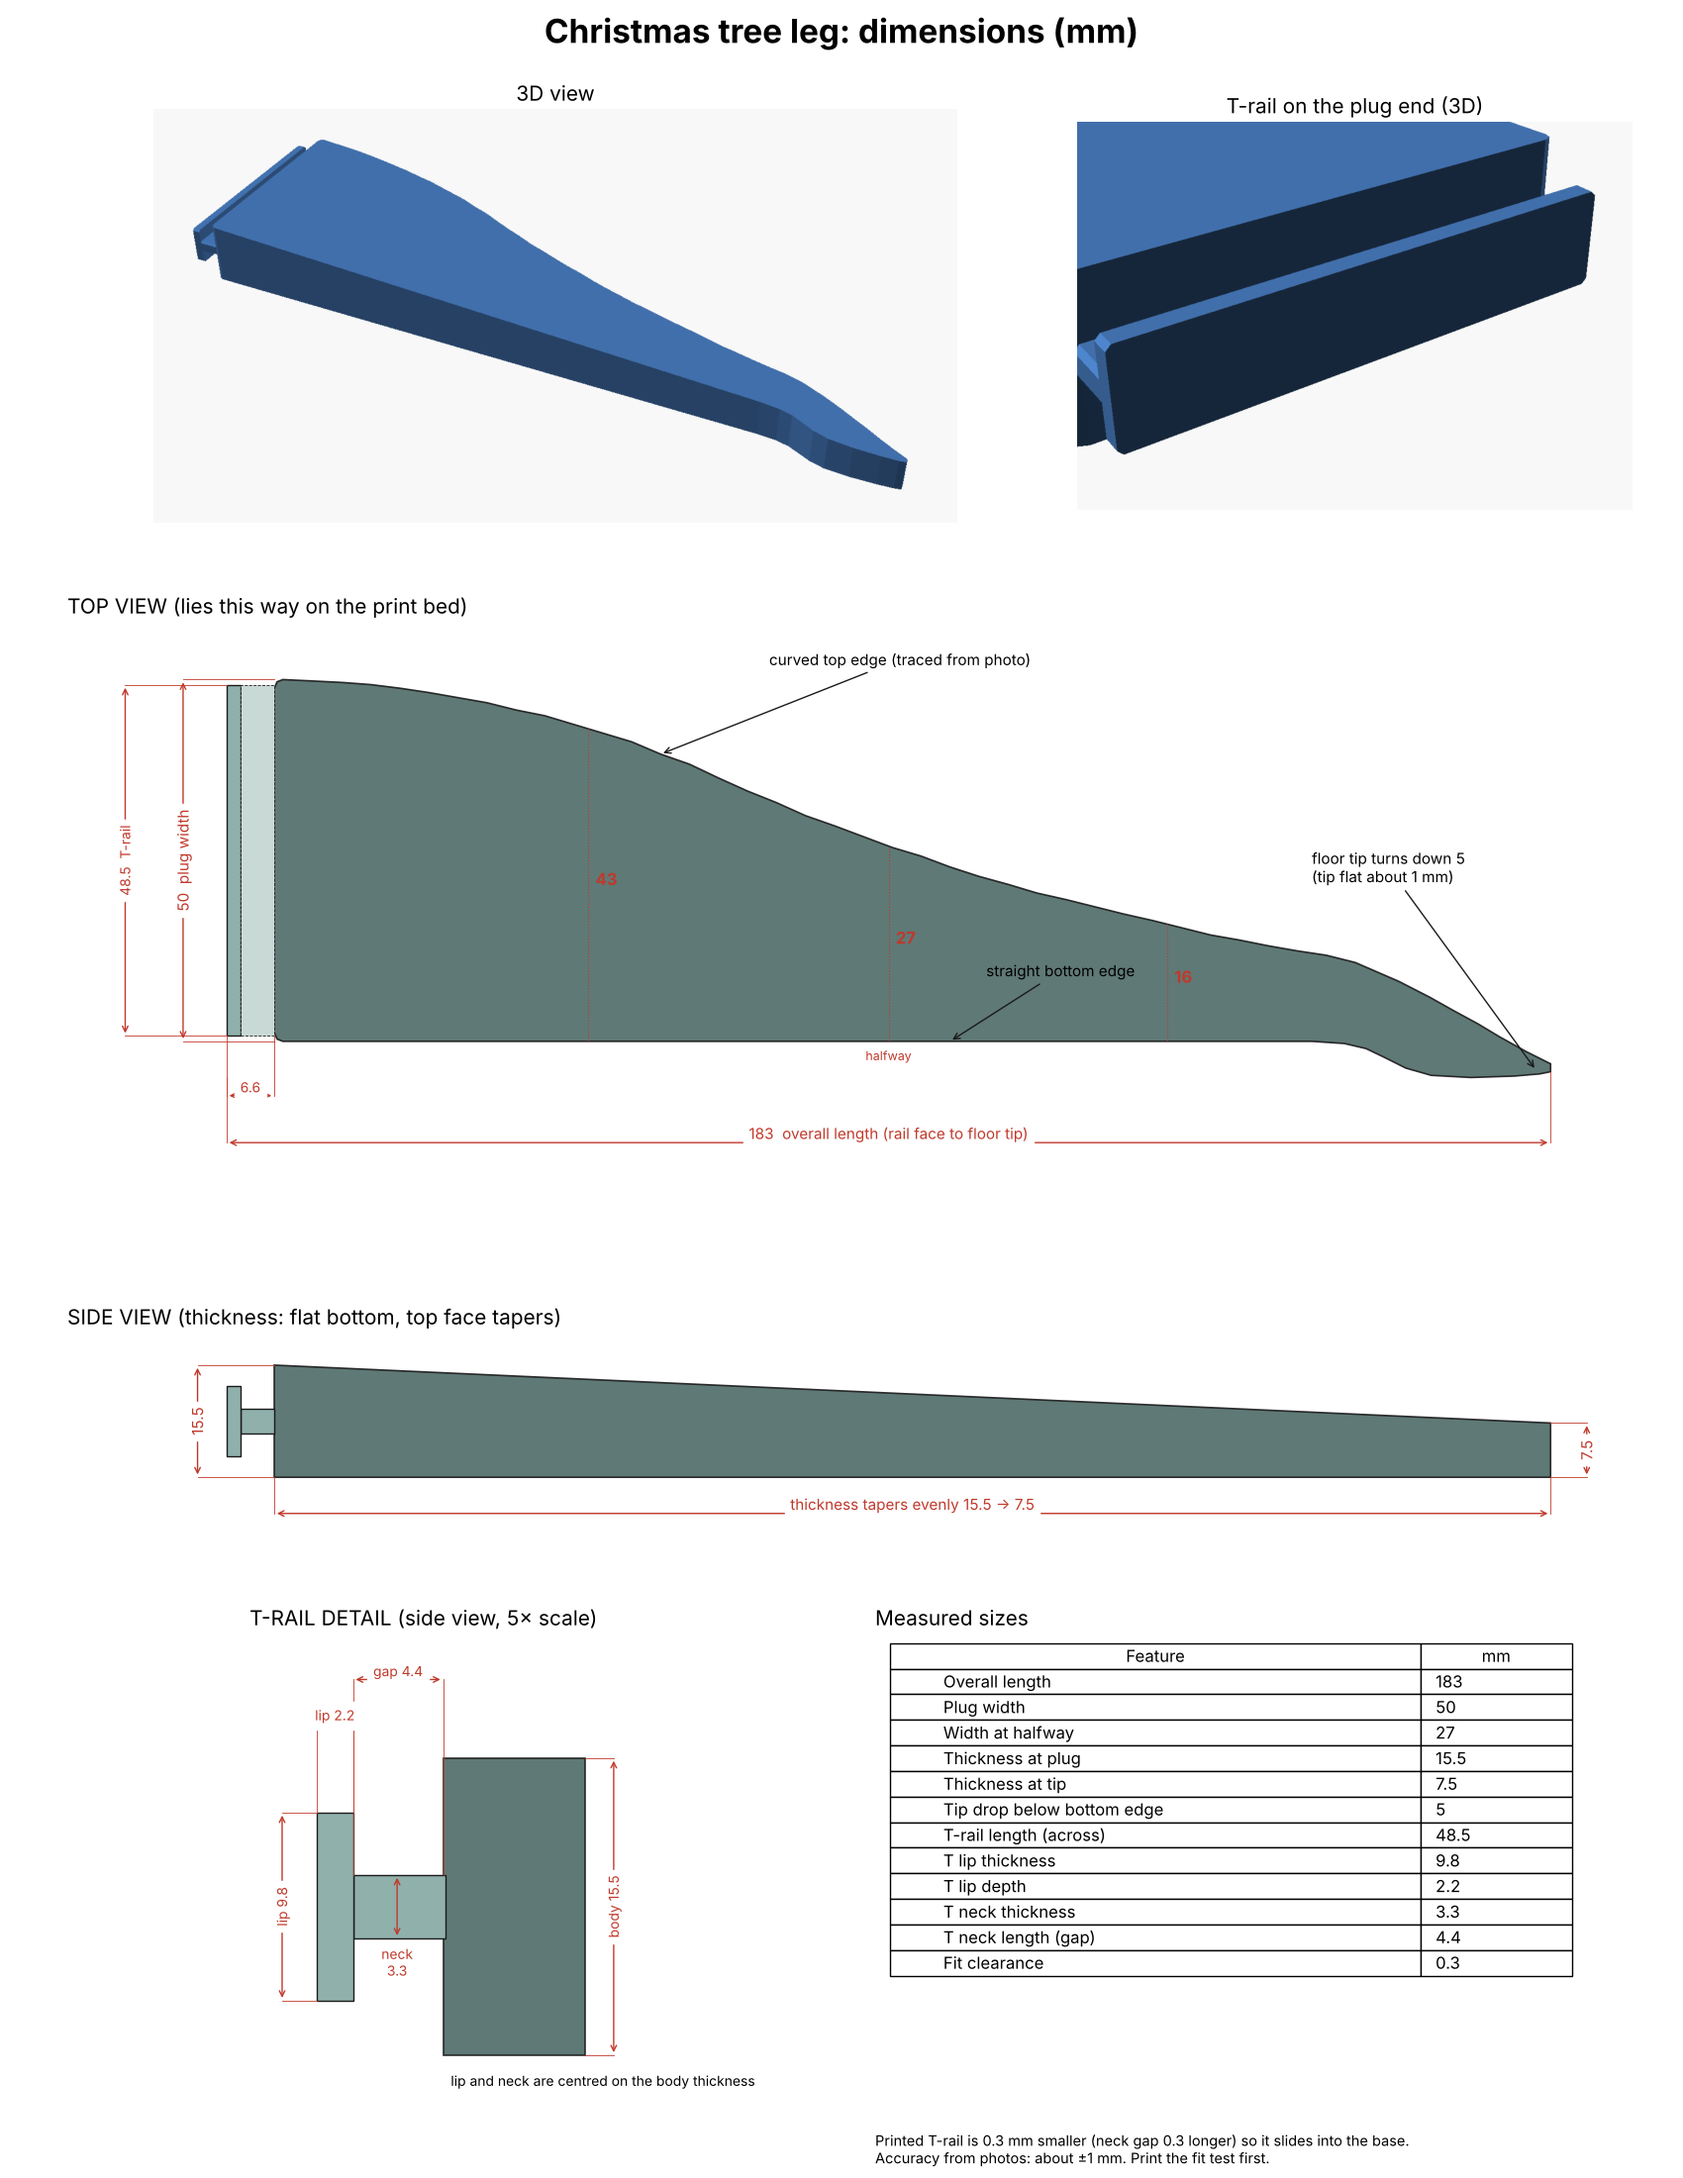
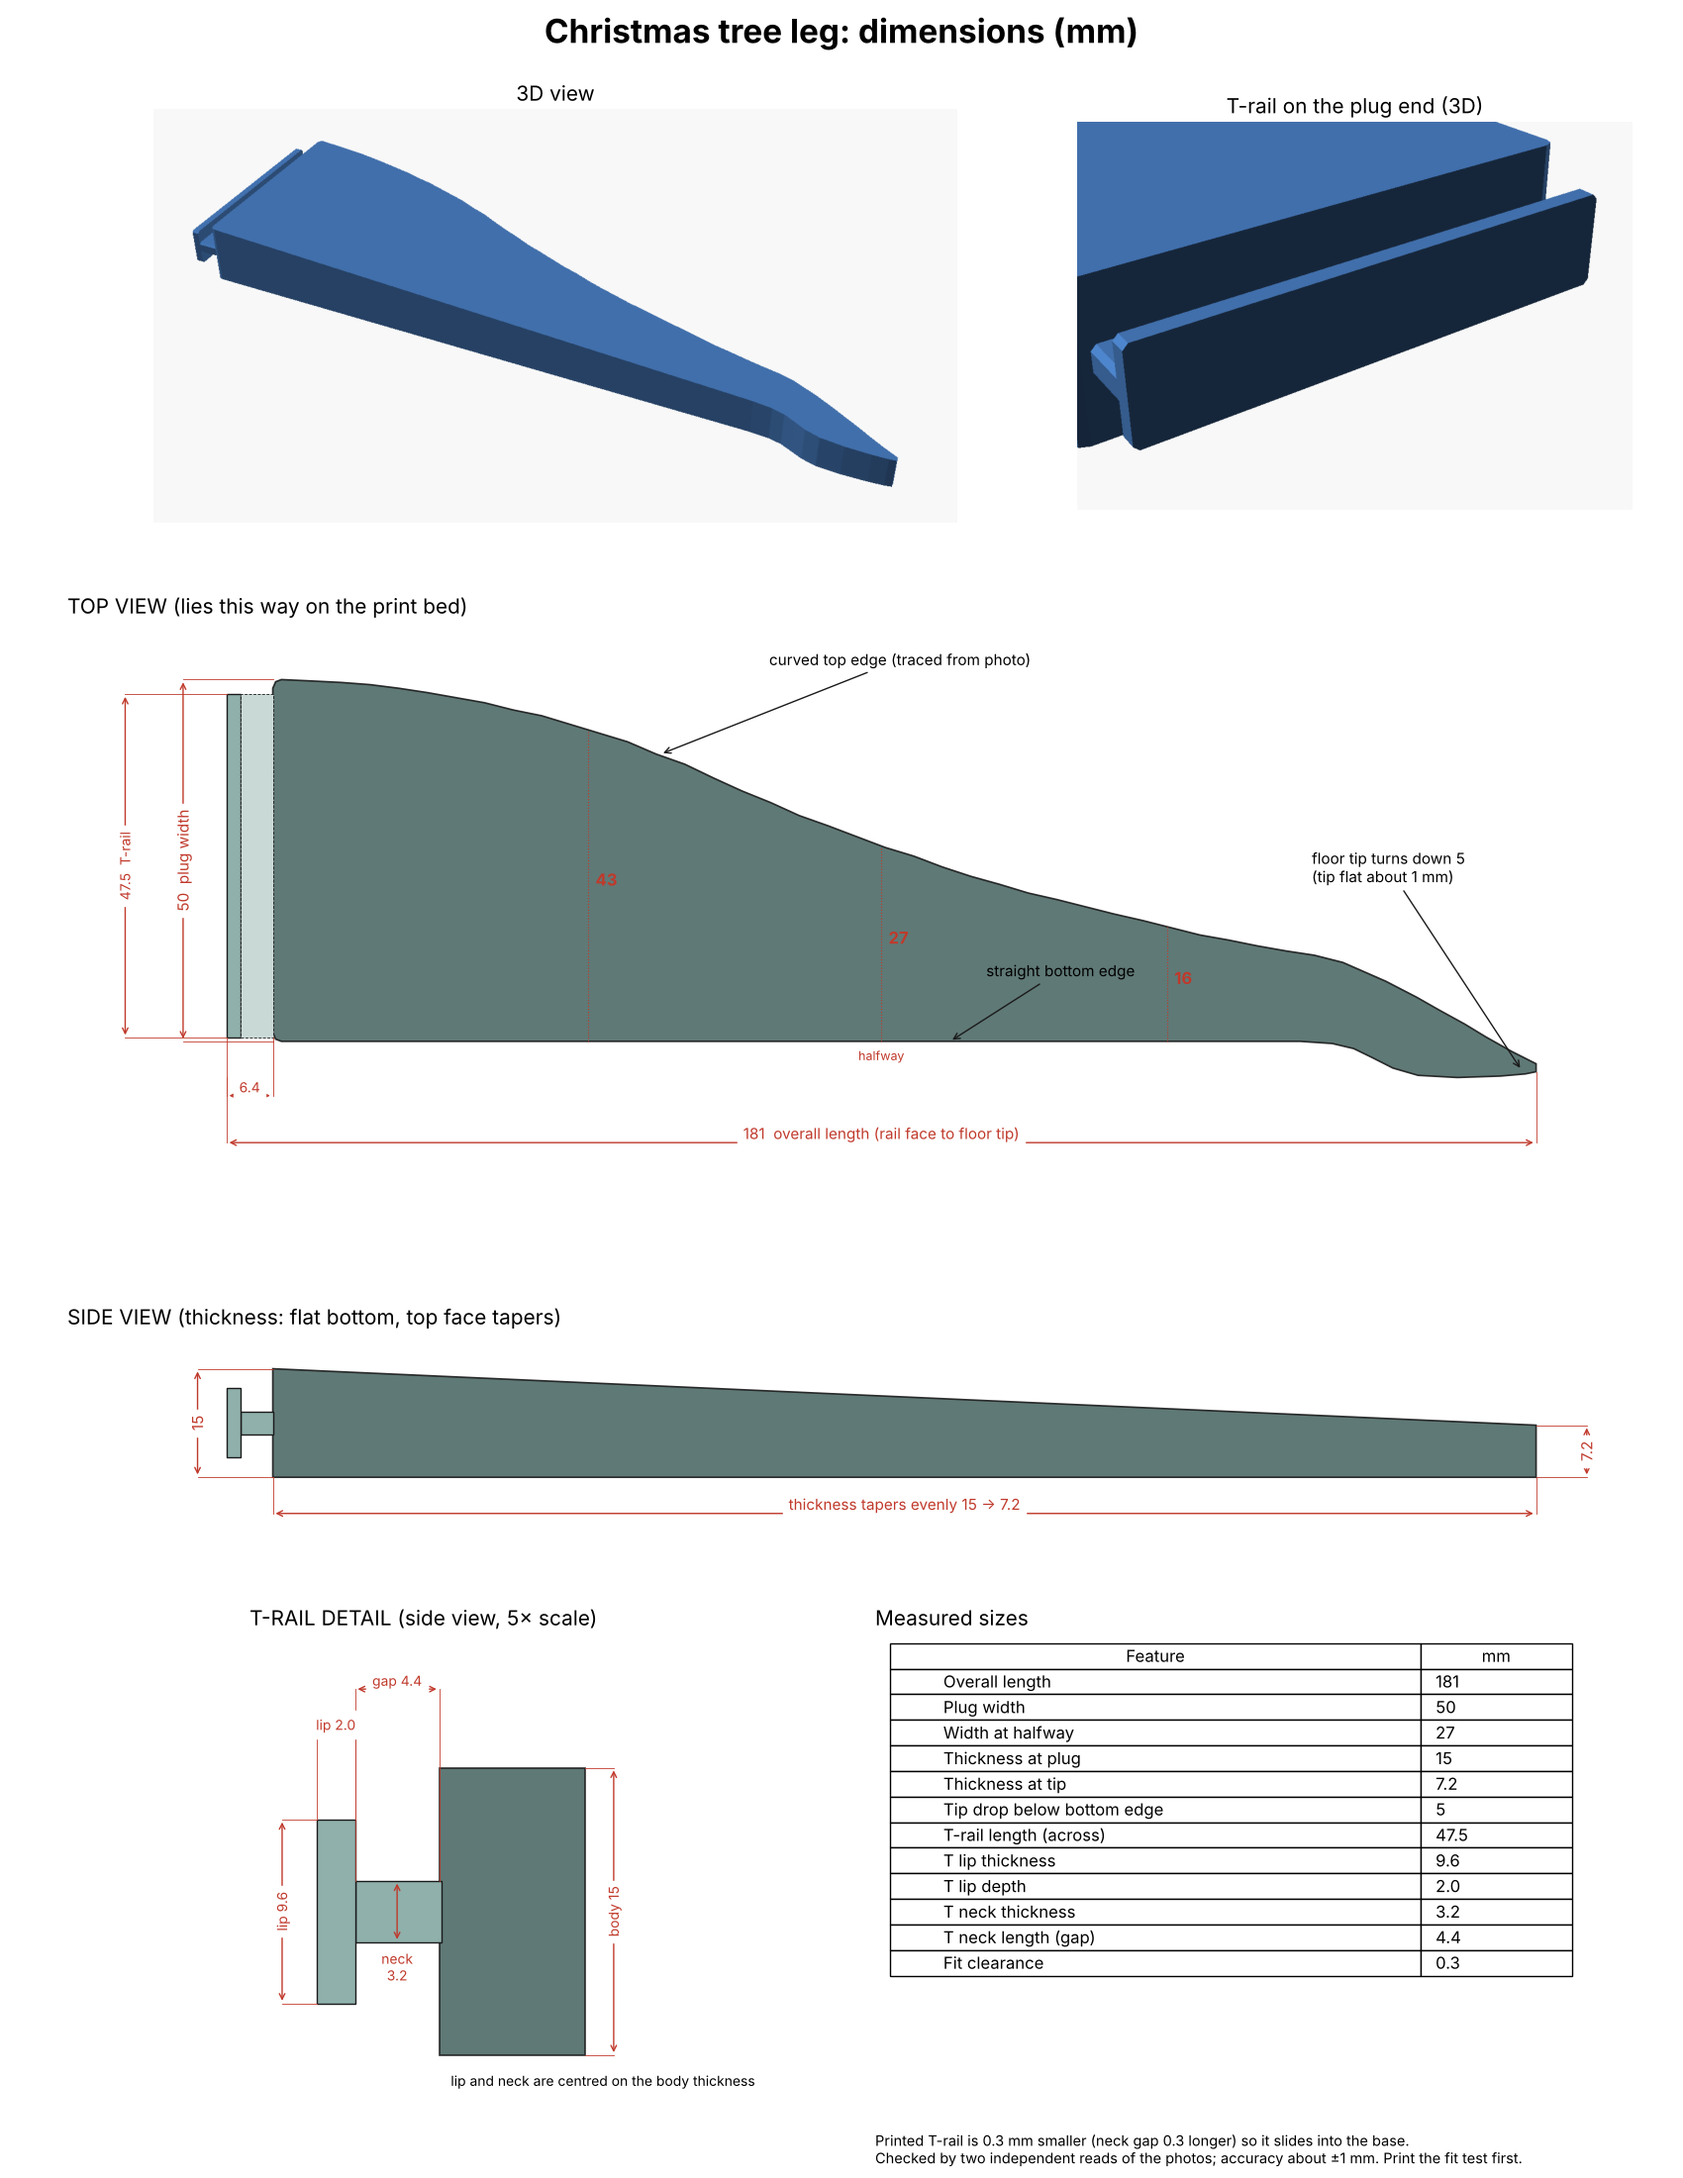
Reconcile leg sizes with independent photo re-measure
Claude-Session: https://claude.ai/code/session_01TojNKQqoTCBMiM8CpRPCsE

diff --git a/christmas-tree-leg/README.md b/christmas-tree-leg/README.md
@@ -3,7 +3,7 @@
 A 3D-printable copy of the leg missing from a small artificial Christmas tree. I measured it from photos of a good
 leg next to a tape measure.
 
-![Preview](preview.png)
+![Dimensions](dimensions.png)
 
 ## Files
 
@@ -20,22 +20,22 @@ Both STL files were checked: closed (watertight), every edge shared by exactly t
 
 | Size | Value | How it was read |
 |---|---|---|
-| Total length (T-rail face to floor tip) | 183 | tape along the leg, two photos (±3) |
+| Total length (T-rail face to floor tip) | 181 | my read 183, independent read 180 (±3) |
 | Plug width (body at the plug end) | 50 | tape across the plug end, three photos (±1) |
-| Width at halfway | about 27 | traced from the top-view photo |
-| Thickness at the plug | 15.5 | tape on the side edge, checked against side views (±1) |
-| Thickness at the tip | 7.5 | side-edge photo |
+| Width at halfway | about 27 | traced from the top-view photo, outer edge of the rim |
+| Thickness at the plug | 15 | my read 15.5, independent read 15 (±1.5) |
+| Thickness at the tip | 7.2 | side-edge photos |
 | Floor tip | turns down about 5 mm below the straight edge | traced |
-| T-rail length (across the plug) | 48.5 | runs nearly the full plug width |
-| T-rail lip (bar) thickness | 9.8 | about 0.63 × plug thickness in two photos |
-| T-rail lip depth | 2.2 | top-view and edge-view photos |
-| T-rail neck (stem) thickness | 3.3 | end-view photos |
+| T-rail length (across the plug) | 47.5 | starts 0.5 in from the straight edge, ends about 2 in from the curved edge |
+| T-rail lip (bar) thickness | 9.6 | 0.63 to 0.64 × body thickness, in four photos |
+| T-rail lip depth | 2.0 | both reads agree (±0.5) |
+| T-rail neck (stem) thickness | 3.2 | 0.20 to 0.21 × body thickness |
 | T-rail neck length (gap behind lip) | 4.4 | read 3.0 to 4.8; kept long so the base wall fits |
 
 **The T is a rail, not a tab.** Seen from the side edge, the plug end has a T-shaped profile that runs across the
-whole 48.5 mm width. The rail slides into a matching T-slot in the tree base.
+whole 47.5 mm width. The rail slides into a matching T-slot in the tree base.
 
-Photos and a tape measure get within about 1 mm, not 0.1 mm. That is why the fit test exists.
+The sizes were read twice, independently, and the two reads agree within about 1 mm on everything that affects the fit. Photos and a tape measure can't do better than about 1 mm, which is why the fit test exists.
 
 ## Fit (clearance)
 
@@ -61,13 +61,13 @@ openscad -D 'part="fit_test"' -o fit-test-plug-end.stl christmas-tree-leg.scad
 - **Supports: "Support on build plate only".** The T-rail lip sits about 3 mm above the bed, so it needs a small support
   under it. Nothing else needs support. Snap the support off and clean the rail with a knife or sandpaper.
 - **Brim:** optional. Helps the narrow tip stay down.
-- **Size:** 183 × 55 × 15.5 mm. It fits any of the printers.
+- **Size:** 181 × 55 × 15 mm. It fits any of the printers.
 
 ## Weight and cost (estimate)
 
 | Part | Weight | Cost at $0.10/g (GST included) |
 |---|---|---|
-| Full leg | about 43 to 46 g | about $4.30 to $4.60 |
-| Fit test | about 7 g | about $0.70 (a $1 minimum may apply) |
+| Full leg | about 41 to 45 g | about $4.10 to $4.50 |
+| Fit test | about 6 to 7 g | about $0.70 (a $1 minimum may apply) |
 
-The slicer gives the exact weight. The solid volume is 64.5 cm³ (80 g if it were 100% solid).
+The slicer gives the exact weight. 

diff --git a/christmas-tree-leg/HANDOFF.md b/christmas-tree-leg/HANDOFF.md
@@ -21,7 +21,6 @@ Public Library makerspace.
   - `fit-test-plug-end.stl`: only the first 15 mm (T-rail + a bit of body), about 7 g, to test the fit first.
   - `christmas-tree-leg.scad`: source. Every size is a named number at the top.
   - `dimensions.png`: dimensioned drawing of every size.
-  - `preview.png`: model outline over the photo, plus top, side, 3/4 and T-rail views.
   - `README.md`: sizes, print settings, cost.
 
 **Not done yet:**
@@ -36,18 +35,19 @@ Public Library makerspace.
 
 | Size (mm) | Value |
 |---|---|
-| Total length (T-rail face to floor tip) | 183 |
+| Total length (T-rail face to floor tip) | 181 |
 | Plug width | 50 |
 | Width at halfway | about 27 |
-| Thickness at plug / tip | 15.5 / 7.5 (flat bottom, top face tapers) |
+| Thickness at plug / tip | 15 / 7.2 (flat bottom, top face tapers) |
 | Floor tip | turns down about 5 mm below the straight bottom edge |
-| T-rail (across plug end) | 48.5 long; lip 9.8 thick × 2.2 deep; neck 3.3 thick × 4.4 long |
+| T-rail (across plug end) | 47.5 long (0.5 in from straight edge); lip 9.6 thick × 2.0 deep; neck 3.2 thick × 4.4 long |
 | Clearance | 0.3 (lip/neck thinner, lip shallower, neck longer) |
 
 - The "T" is a **T-shaped rail** across the whole plug end that slides into a T-slot in the tree base. It is NOT a
   small tab. An older plan had it as an 18 mm tab, which was wrong.
-- Corrected from the older plan: length 190→183, plug width 48→50, plug thickness 12→15.5, tip thickness 5→7.5,
+- Corrected from the older plan: length 190→181, plug width 48→50, plug thickness 12→15, tip thickness 5→7.2,
   halfway width 32→27.
+- Sizes were read twice, independently (two separate passes over the photos), and reconciled.
 - Accuracy from photos is about ±1 mm. That's why there's a fit test.
 
 ## Print settings
@@ -57,7 +57,7 @@ Public Library makerspace.
 - **Supports: "Support on build plate only".** The T-rail lip sits about 3 mm above the bed. Snap the support off and
   clean the rail with a knife or sandpaper.
 - Brim optional (helps the narrow tip).
-- Estimated full leg: about 43–46 g, about $4.50 at EPL's $0.10/g (GST included). Fit test: about 7 g, under $1.
+- Estimated full leg: about 41–45 g, about $4.30 at EPL's $0.10/g (GST included). Fit test: about 6–7 g, under $1.
 
 ## If the fit test doesn't fit
 
